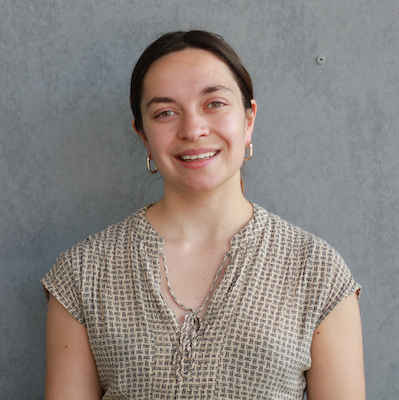
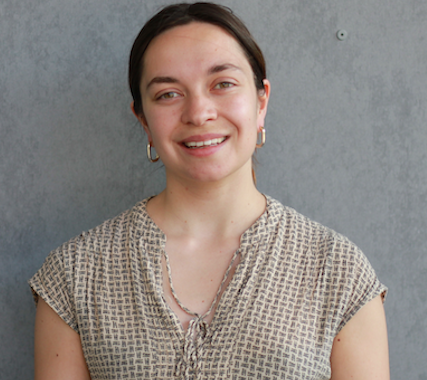
Updated Speaker Bio, Organizer

diff --git a/README.md b/README.md
@@ -17,20 +17,13 @@ This CRAFT session will be held virtually, on **June 15, 2023 10:15 - 11:45 US C
 | 11:25 - 11:40 | Group-wide discussion | 
 | 11:40 - 11:45 | Call to action and concluding remarks |
 
-### Panelists
-- [Rockwell F. Clancy](http://rockwellfclancy.com/), Virginia Tech
-- [Mahealani Kauahi](https://www.linkedin.com/in/mahealani-kauahi), Ancestral Knowledge and Hawaiian Languages
-- [Vipul Siddharth](https://www.linkedin.com/in/siddharthvipul/0), UNICEF
+## Panelists
 
 |  |  |  |  
 | :-------------: | :-------------: | :-------------: | 
 | <img src="media/Rockwell.png" height="100%"> | <img src="media/Mahealani.png" height="100%"> |  <img src="media/Vipul.png" height="100%"> | 
 | [Rockwell F. Clancy](http://rockwellfclancy.com/), Virginia Tech | [Mahealani Kauahi](https://www.linkedin.com/in/mahealani-kauahi), Ancestral Knowledge and Hawaiian Languages| [Vipul Siddharth](https://www.linkedin.com/in/siddharthvipul/0), UNICEF | 
-| Rockwell Clancy conducts research at the intersection of technology ethics, moral psychology, and Chinese philosophy. He explores how culture and education affect moral judgments, the causes of unethical behaviors, and what can be done to ensure more ethical behaviors regarding technology. Rockwell is a Research Scientist in the Department of Engineering Education at Virginia Tech. Before moving to Virginia, he was a Research Assistant Professor in the Department of Humanities, Arts, and Social Sciences at the Colorado School of Mines. Rockwell holds a PhD from Purdue University, MA from Katholieke Universiteit, Leuven, and BA from Fordham University.
-
- |Māhealani Kauahi is a highly networked Hawaiian professional with over 15 years of experience in education, agriculture, and community outreach. As a results-driven project leader, she has directed and coordinated teams, managing projects such as the engagement of families in learning sustainable agriculture techniques and the development of community- and place-based educational programs for students.  Māhealani’s expertise lies in networking, change management and instructional leadership.  She is a valued facilitator, instructional mentor, and subject-matter expert in Hawaiian education. Māhealani holds a BA in Anthropology and Hawaiian Language, an MBA specializing in Environmental Management and a PhD in Philosophy in Education.  |Vipul is the Open Source Technical Advisor at the UNICEF Office of Innovation. He provides technical assistance and mentorship to portfolio companies, helping them actively foster open source communities. He helps Innovation fund with selecting the right companies and supports Digital Public Goods Alliance. He is passionate about DEI and sustainability in Open Communities, and serves on the Fedora Council as the DEI advisor. When not learning more on Open Standards and Innovations, he loves open water swimming, or nerding out on coffee.
-
-  | 
+| Rockwell Clancy conducts research at the intersection of technology ethics, moral psychology, and Chinese philosophy. He explores how culture and education affect moral judgments, the causes of unethical behaviors, and what can be done to ensure more ethical behaviors regarding technology. Rockwell is a Research Scientist in the Department of Engineering Education at Virginia Tech. Before moving to Virginia, he was a Research Assistant Professor in the Department of Humanities, Arts, and Social Sciences at the Colorado School of Mines. Rockwell holds a PhD from Purdue University, MA from Katholieke Universiteit, Leuven, and BA from Fordham University. | Māhealani Kauahi is a highly networked Hawaiian professional with over 15 years of experience in education, agriculture, and community outreach. As a results-driven project leader, she has directed and coordinated teams, managing projects such as the engagement of families in learning sustainable agriculture techniques and the development of community- and place-based educational programs for students.  Māhealani’s expertise lies in networking, change management and instructional leadership.  She is a valued facilitator, instructional mentor, and subject-matter expert in Hawaiian education. Māhealani holds a BA in Anthropology and Hawaiian Language, an MBA specializing in Environmental Management and a PhD in Philosophy in Education.  | Vipul is the Open Source Technical Advisor at the UNICEF Office of Innovation. He provides technical assistance and mentorship to portfolio companies, helping them actively foster open source communities. He helps Innovation fund with selecting the right companies and supports Digital Public Goods Alliance. He is passionate about DEI and sustainability in Open Communities, and serves on the Fedora Council as the DEI advisor. When not learning more on Open Standards and Innovations, he loves open water swimming, or nerding out on coffee. | 
 
 
 
@@ -45,4 +38,4 @@ This CRAFT session will be held virtually, on **June 15, 2023 10:15 - 11:45 US C
 
 ## Virtual conference link will be shared with registered participants 
 Please register to attend: 
-[RSVP Here](https://forms.gle/2QdNpL7UobpeLxSWA)
+[RSVP Link](https://forms.gle/2QdNpL7UobpeLxSWA)
